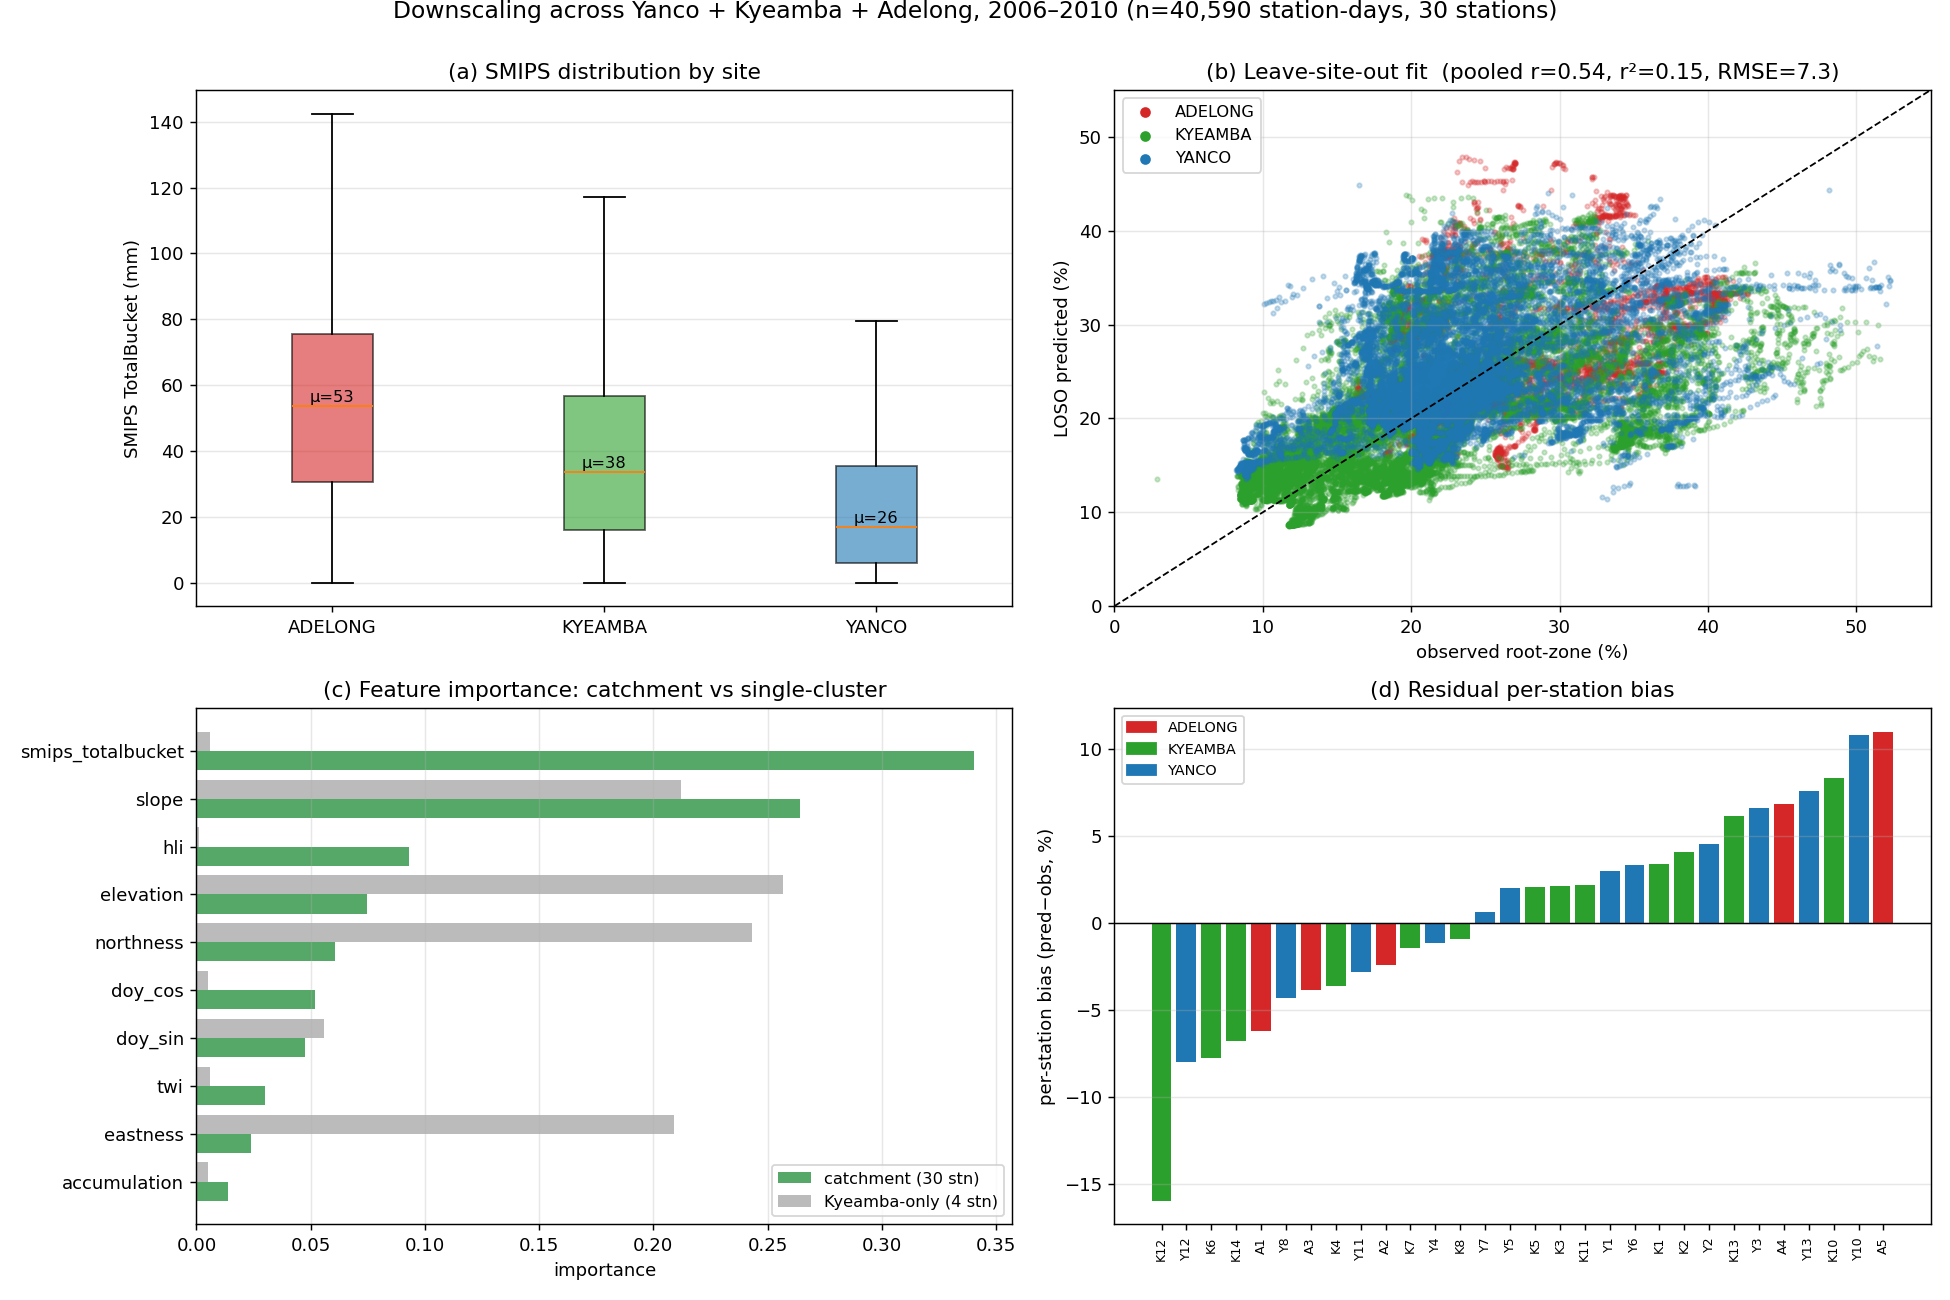
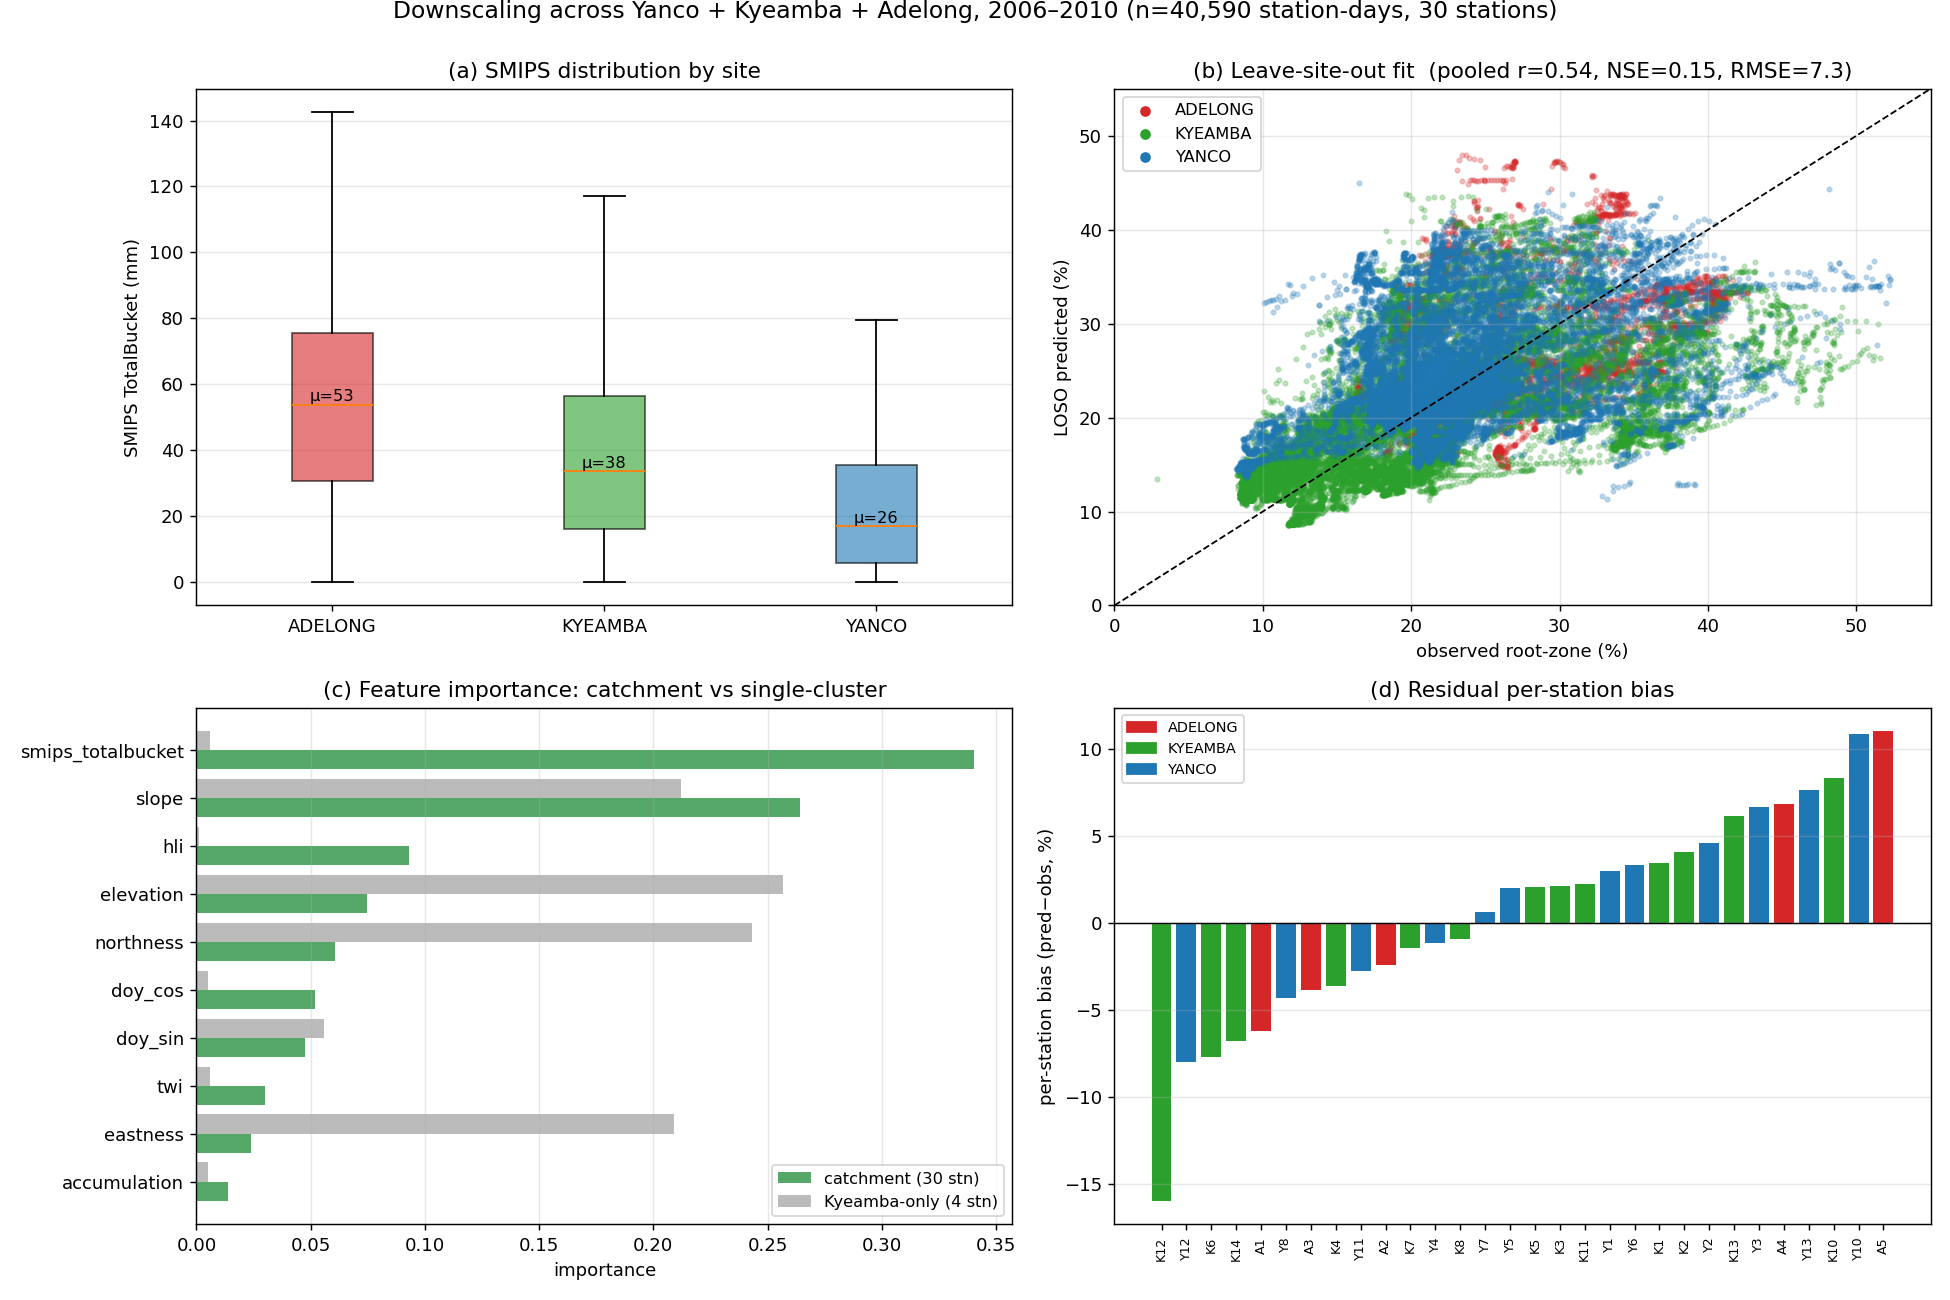
per site vs average NSE

diff --git a/handout/plot_per_station.py b/handout/plot_per_station.py
@@ -1,0 +1,90 @@
+"""Per-station leave-site-out time series for the catchment model.
+
+Each panel shows one held-out station's observed vs predicted root-zone moisture
+over the full record, labelled with that station's r and NSE. The pooled NSE
+(over all station-days) is the headline cross-validated skill and is stated in
+the title, to distinguish it from the single-date spatial snapshot in
+downscale_yanco.png.
+
+Run from repo root::  PYTHONPATH=. python handout/plot_per_station.py
+"""
+from __future__ import annotations
+from pathlib import Path
+
+import pandas as pd
+import matplotlib
+matplotlib.use("Agg")
+import matplotlib.pyplot as plt
+import matplotlib.dates as mdates
+
+from emt.model import leave_site_out_cv, TARGET
+from emt.features import SMIPS_COL  # noqa: F401
+
+REPO = Path(__file__).resolve().parent.parent
+FIGDIR = REPO / "handout" / "figures"
+TABLE = REPO / "data" / "train_catchment_2006_2010.csv"
+SITE_COLOR = {"YANCO": "#1f77b4", "KYEAMBA": "#2ca02c", "ADELONG": "#d62728"}
+
+tab = pd.read_csv(TABLE)
+tab["time"] = pd.to_datetime(tab["time"])
+site_of = tab.drop_duplicates("station").set_index("station")["site"]
+
+cv = leave_site_out_cv(tab)
+pred = cv["predictions"].copy()
+pred["time"] = pd.to_datetime(pred["time"])
+ps = cv["per_site"].set_index("station")
+pooled = cv["pooled"]
+
+
+def order(stations):
+    sites = ["ADELONG", "KYEAMBA", "YANCO"]
+    return sorted(stations, key=lambda s: (sites.index(site_of[s]), s))
+
+
+def grid(stations, fname, suptitle, ncols):
+    stations = order(stations)
+    nrows = (len(stations) + ncols - 1) // ncols
+    fig, axes = plt.subplots(nrows, ncols, figsize=(ncols * 3.4, nrows * 2.4),
+                             sharex=True)
+    axes = axes.ravel()
+    for ax, stn in zip(axes, stations):
+        g = pred[pred.station == stn].sort_values("time")
+        c = SITE_COLOR[site_of[stn]]
+        ax.plot(g["time"], g[TARGET], color="k", lw=0.7, label="observed")
+        ax.plot(g["time"], g["pred"], color=c, lw=0.9, label="LOSO prediction")
+        m = ps.loc[stn]
+        ax.set_title(f"{stn}   r={m.r:.2f}  NSE={m.nse:.2f}", fontsize=9)
+        ax.tick_params(labelsize=7)
+        ax.xaxis.set_major_locator(mdates.YearLocator())
+        ax.xaxis.set_major_formatter(mdates.DateFormatter("%Y"))
+        ax.grid(alpha=.25)
+    for ax in axes[len(stations):]:
+        ax.set_visible(False)
+    axes[0].legend(fontsize=7, loc="upper left")
+    fig.suptitle(suptitle, fontsize=13, y=0.995)
+    fig.supylabel("root-zone soil moisture (%)", fontsize=10)
+    fig.tight_layout(rect=[0.01, 0, 1, 0.985])
+    fig.savefig(FIGDIR / fname, dpi=110)
+    plt.close(fig)
+    print("wrote", (FIGDIR / fname).relative_to(REPO))
+
+
+all30 = list(tab.station.unique())
+grid(all30, "catchment_per_station.png", ncols=6,
+     suptitle=(f"Leave-site-out prediction vs observation, all {len(all30)} stations "
+               f"(2006-2010).  Pooled NSE = {pooled['nse']:+.2f}  "
+               f"(headline cross-validated skill; panel titles are per-station)"))
+
+kyeamba = [s for s in all30 if site_of[s] == "KYEAMBA"]
+grid(kyeamba, "kyeamba_per_station.png", ncols=4,
+     suptitle=(f"Leave-site-out prediction vs observation, {len(kyeamba)} Kyeamba "
+               f"stations (2006-2010).  Pooled NSE = {pooled['nse']:+.2f}"))
+
+# Per-station NSE distribution, for reference.
+nse = ps["nse"].sort_values()
+print(f"per-station NSE: min={nse.min():.2f}, median={nse.median():.2f}, "
+      f"max={nse.max():.2f}; positive at {int((nse>0).sum())}/{len(nse)} stations")
+print(f"per-station r:   median={ps['r'].median():.2f}; "
+      f"ubRMSE median={ps['ubrmse'].median():.2f}%")
+print(f"pooled: NSE={pooled['nse']:+.3f}, r={pooled['r']:.3f}, "
+      f"ubRMSE={pooled['ubrmse']:.2f}%")

diff --git a/emt/model.py b/emt/model.py
@@ -39,8 +39,10 @@ def build_estimator(**kwargs) -> RandomForestRegressor:
 def metrics(y_true, y_pred) -> dict:
     """Standard soil-moisture validation metrics.
 
-    rmse, ubrmse (bias-removed RMSE), bias (pred-obs), r (Pearson),
-    r2 (1 - SS_res/SS_tot), and n.
+    Returns rmse, ubrmse (bias-removed RMSE), bias (pred-obs), r (Pearson),
+    nse (Nash-Sutcliffe efficiency, 1 - SS_res/SS_tot), and n. NSE > 0 means the
+    prediction is more skilful than the observed mean; NSE = 1 is perfect. NSE is
+    identical to the coefficient of determination, also returned as ``r2``.
     """
     y_true = np.asarray(y_true, dtype=float)
     y_pred = np.asarray(y_pred, dtype=float)
@@ -48,7 +50,8 @@ def metrics(y_true, y_pred) -> dict:
     y_true, y_pred = y_true[ok], y_pred[ok]
     n = y_true.size
     if n < 2:
-        return dict(rmse=np.nan, ubrmse=np.nan, bias=np.nan, r=np.nan, r2=np.nan, n=n)
+        return dict(rmse=np.nan, ubrmse=np.nan, bias=np.nan, r=np.nan,
+                    nse=np.nan, r2=np.nan, n=n)
     err = y_pred - y_true
     bias = float(err.mean())
     rmse = float(np.sqrt((err ** 2).mean()))
@@ -56,8 +59,8 @@ def metrics(y_true, y_pred) -> dict:
     r = float(np.corrcoef(y_true, y_pred)[0, 1])
     ss_res = float(((y_true - y_pred) ** 2).sum())
     ss_tot = float(((y_true - y_true.mean()) ** 2).sum())
-    r2 = 1.0 - ss_res / ss_tot if ss_tot > 0 else np.nan
-    return dict(rmse=rmse, ubrmse=ubrmse, bias=bias, r=r, r2=r2, n=n)
+    nse = 1.0 - ss_res / ss_tot if ss_tot > 0 else np.nan  # Nash-Sutcliffe efficiency
+    return dict(rmse=rmse, ubrmse=ubrmse, bias=bias, r=r, nse=nse, r2=nse, n=n)
 
 
 def fit(table: pd.DataFrame, estimator: RandomForestRegressor | None = None

diff --git a/handout/plot_downscale.py b/handout/plot_downscale.py
@@ -99,7 +99,7 @@ ax[1,1].plot(lim, lim, "k--", lw=1)
 ax[1,1].set(xlim=lim, ylim=lim, xlabel="OzNet observed (%)", ylabel="downscaled @ station (%)",
             title="(d) Held-out validation at 12 Yanco stations")
 ax[1,1].text(.03, .97, f"RMSE={M['rmse']:.2f}%\nubRMSE={M['ubrmse']:.2f}%\n"
-             f"bias={M['bias']:+.2f}%\nr={M['r']:.2f}  n={M['n']}",
+             f"bias={M['bias']:+.2f}%\nNSE={M['nse']:.2f}\nr={M['r']:.2f}  n={M['n']}",
              transform=ax[1,1].transAxes, va="top", fontsize=10,
              bbox=dict(boxstyle="round", fc="w", alpha=.8))
 ax[1,1].grid(alpha=.3)

diff --git a/handout/plot_catchment.py b/handout/plot_catchment.py
@@ -61,7 +61,7 @@ for s in SITES:
 lim = [0, 55]
 ax[0,1].plot(lim, lim, "k--", lw=1)
 ax[0,1].set(xlim=lim, ylim=lim, xlabel="observed root-zone (%)", ylabel="LOSO predicted (%)",
-            title=f"(b) Leave-site-out fit  (pooled r={pooled['r']:.2f}, r²={pooled['r2']:.2f}, "
+            title=f"(b) Leave-site-out fit  (pooled r={pooled['r']:.2f}, NSE={pooled['nse']:.2f}, "
                   f"RMSE={pooled['rmse']:.1f})")
 leg = ax[0,1].legend(fontsize=9, markerscale=2);
 for lh in leg.legend_handles: lh.set_alpha(1)

diff --git a/handout/README.md b/handout/README.md
@@ -95,7 +95,7 @@ The model was first evaluated on four Kyeamba stations (June–July 2020) using
 evaluated on the fourth, which it has not seen, with the procedure repeated for
 each station in turn. This estimates performance at a new location, which is the
 intended application. The result was negative pooled skill (r = −0.45,
-r² = −1.16), with negligible SMIPS feature importance (0.006). The figures below
+NSE = −1.16), with negligible SMIPS feature importance (0.006). The figures below
 explain why.
 
 ![Leave-site-out cross-validation, Kyeamba](figures/leave_site_out_cv.png)
@@ -107,7 +107,7 @@ explain why.
   correct but the absolute level is not.
 - **(b)** Per station, the correlation (blue) is ≈0.9 throughout while the bias
   (red) is large (K10 +3.5, K12 −4.6). High correlation combined with large bias
-  produces the negative pooled r².
+  produces the negative pooled NSE.
 - **(c)** Feature importance is dominated by terrain (≈88 %); `smips_totalbucket`
   is near the bottom (≈0.006). For a method intended to downscale SMIPS, this
   indicates SMIPS is not contributing.
@@ -139,7 +139,7 @@ predictor.
   Yanco ≈26 mm), supplying the between-site signal absent in the single-cluster
   set.
 - **(b)** Leave-site-out fit across 30 held-out stations: pooled r = 0.54,
-  r² = +0.16.
+  NSE = +0.15.
 - **(c)** Feature importance: SMIPS becomes the highest-ranked predictor (0.34),
   followed by slope (0.27).
 - **(d)** Residual per-station bias persists (e.g. K12 −16 %, A5 +11 %).
@@ -149,12 +149,35 @@ predictor.
 | Metric | Kyeamba only (4 stations) | Catchment (30 stations) |
 |---|---|---|
 | Pooled leave-site-out r | −0.45 | +0.54 |
-| Pooled leave-site-out r² | −1.16 | +0.16 |
+| Pooled leave-site-out NSE | −1.16 | +0.15 |
 | SMIPS feature importance | 0.006 | 0.34 |
 | corr(target, SMIPS) | 0.25 | 0.53 |
 
-Between-site variation in SMIPS changes its feature importance from negligible
-to dominant and brings pooled cross-validation skill into the positive range.
+Between-site variation in SMIPS changes its feature importance from negligible to
+dominant and raises the pooled NSE from −1.16 to +0.15. The pooled figure should
+be read alongside the per-station results below, which are more demanding.
+
+### Per-station performance
+
+The pooled NSE is computed over all station-days together. Because the observed
+values span dry (Yanco) to wet (Adelong) sites, the between-site variance enters
+the denominator and makes the pooled figure relatively lenient. The standard
+per-station (temporal) NSE, computed on each station's own series, is the more
+exacting test.
+
+![Leave-site-out, all 30 stations](figures/catchment_per_station.png)
+
+![Leave-site-out, Kyeamba stations](figures/kyeamba_per_station.png)
+
+Across the 30 held-out stations the model reproduces temporal dynamics well
+(median per-station r = 0.75, median ubRMSE = 3.9 %): in each panel the
+prediction follows the shape of the observations. However, **per-station NSE is
+negative at 23 of 30 stations (median −0.56)** because the absolute-level bias
+dominates the per-station statistic. By the standard per-station definition the
+model does not yet reach NSE > 0 at most sites; the positive pooled value
+(+0.15) reflects the easier between-site comparison. Reducing the per-station
+bias (see [Future work](#future-work)) is what would bring per-station NSE above
+zero.
 
 ## 30 m downscaling and spatial transfer
 
@@ -177,6 +200,7 @@ stations reporting).
   | ubRMSE | 2.4 % | Bias-removed error is low; spatial pattern transfers |
   | Bias | +11.3 % | Systematic over-prediction of the semi-arid Yanco plains by a model trained on wetter upland sites |
   | r | 0.41 | Moderate, across 12 stations |
+  | NSE | −20 | Strongly negative because this is a single date: the between-station spread is small, so the +11.3 % bias dominates the statistic. NSE is informative over the full record (the leave-site-out value above), not for a one-day spatial snapshot. |
 
 **Assessment.** Under full-region transfer the relative spatial structure is
 reproduced (ubRMSE 2.4 %) while the absolute level carries a substantial regional
@@ -193,10 +217,39 @@ the absolute moisture level. See [Limitations](#limitations) and
 | ubRMSE | Bias-removed RMSE, √(RMSE² − bias²); the standard soil-moisture skill statistic |
 | Bias | mean(pred − obs) |
 | r | Pearson correlation |
-| r² | 1 − SS_res / SS_tot (may be negative when bias dominates) |
+| NSE | Nash-Sutcliffe efficiency, 1 − Σ(pred − obs)² / Σ(obs − mean obs)². NSE = 1 is perfect, NSE > 0 is more skilful than the observed mean, NSE < 0 is worse. Identical to the coefficient of determination (returned as `r2` in code). |
 
-Generalisation skill is reported as the leave-site-out or leave-region-out
-value in all cases.
+Generalisation skill is reported as the leave-site-out or leave-region-out value
+in all cases. NSE > 0 (skill beyond the observed mean) is the conventional
+threshold for a useful soil-moisture model. NSE can be computed *pooled* (over
+all station-days) or *per-station* (each station's own series); the two differ
+substantially here and both are reported. The per-station figure is the more
+exacting and is the one to weight.
+
+## Interpreting the result
+
+The outcome is best read as a validated proof of concept rather than a finished
+product. The pipeline works end to end and SMIPS is the dominant predictor, but
+the skill is limited by absolute-level bias.
+
+- **Dynamics are reproduced well.** Across the 30 held-out stations the median
+  per-station correlation is 0.75 and the median ubRMSE is 3.9 %. The model
+  follows the shape of each station's time series.
+- **Per-station NSE is not yet positive at most sites.** Median per-station
+  NSE is −0.56, positive at only 7 of 30 stations, because a per-station level
+  bias dominates the statistic. The pooled NSE (+0.15) is positive but is a more
+  lenient measure (it credits the model for separating dry and wet sites). By the
+  standard per-station definition the model does not yet clear NSE > 0.
+- **Cross-region transfer is limited by the same bias.** With Yanco withheld
+  entirely, the spatial pattern transfers (ubRMSE 2.4 %) but the level carries a
+  +11.3 % bias. The model should not be applied to a new, climatically different
+  region without bias correction.
+
+The limiting factor throughout is absolute-level bias, not dynamics. Reducing it
+(soil covariates and/or bias correction; see [Future work](#future-work)) is the
+prerequisite for positive per-station NSE. When evaluating a new dataset, weight
+the per-station NSE over the full record, not a single-date spatial snapshot (for
+which NSE is unstable when the between-station spread is small).
 
 ## Limitations
 
